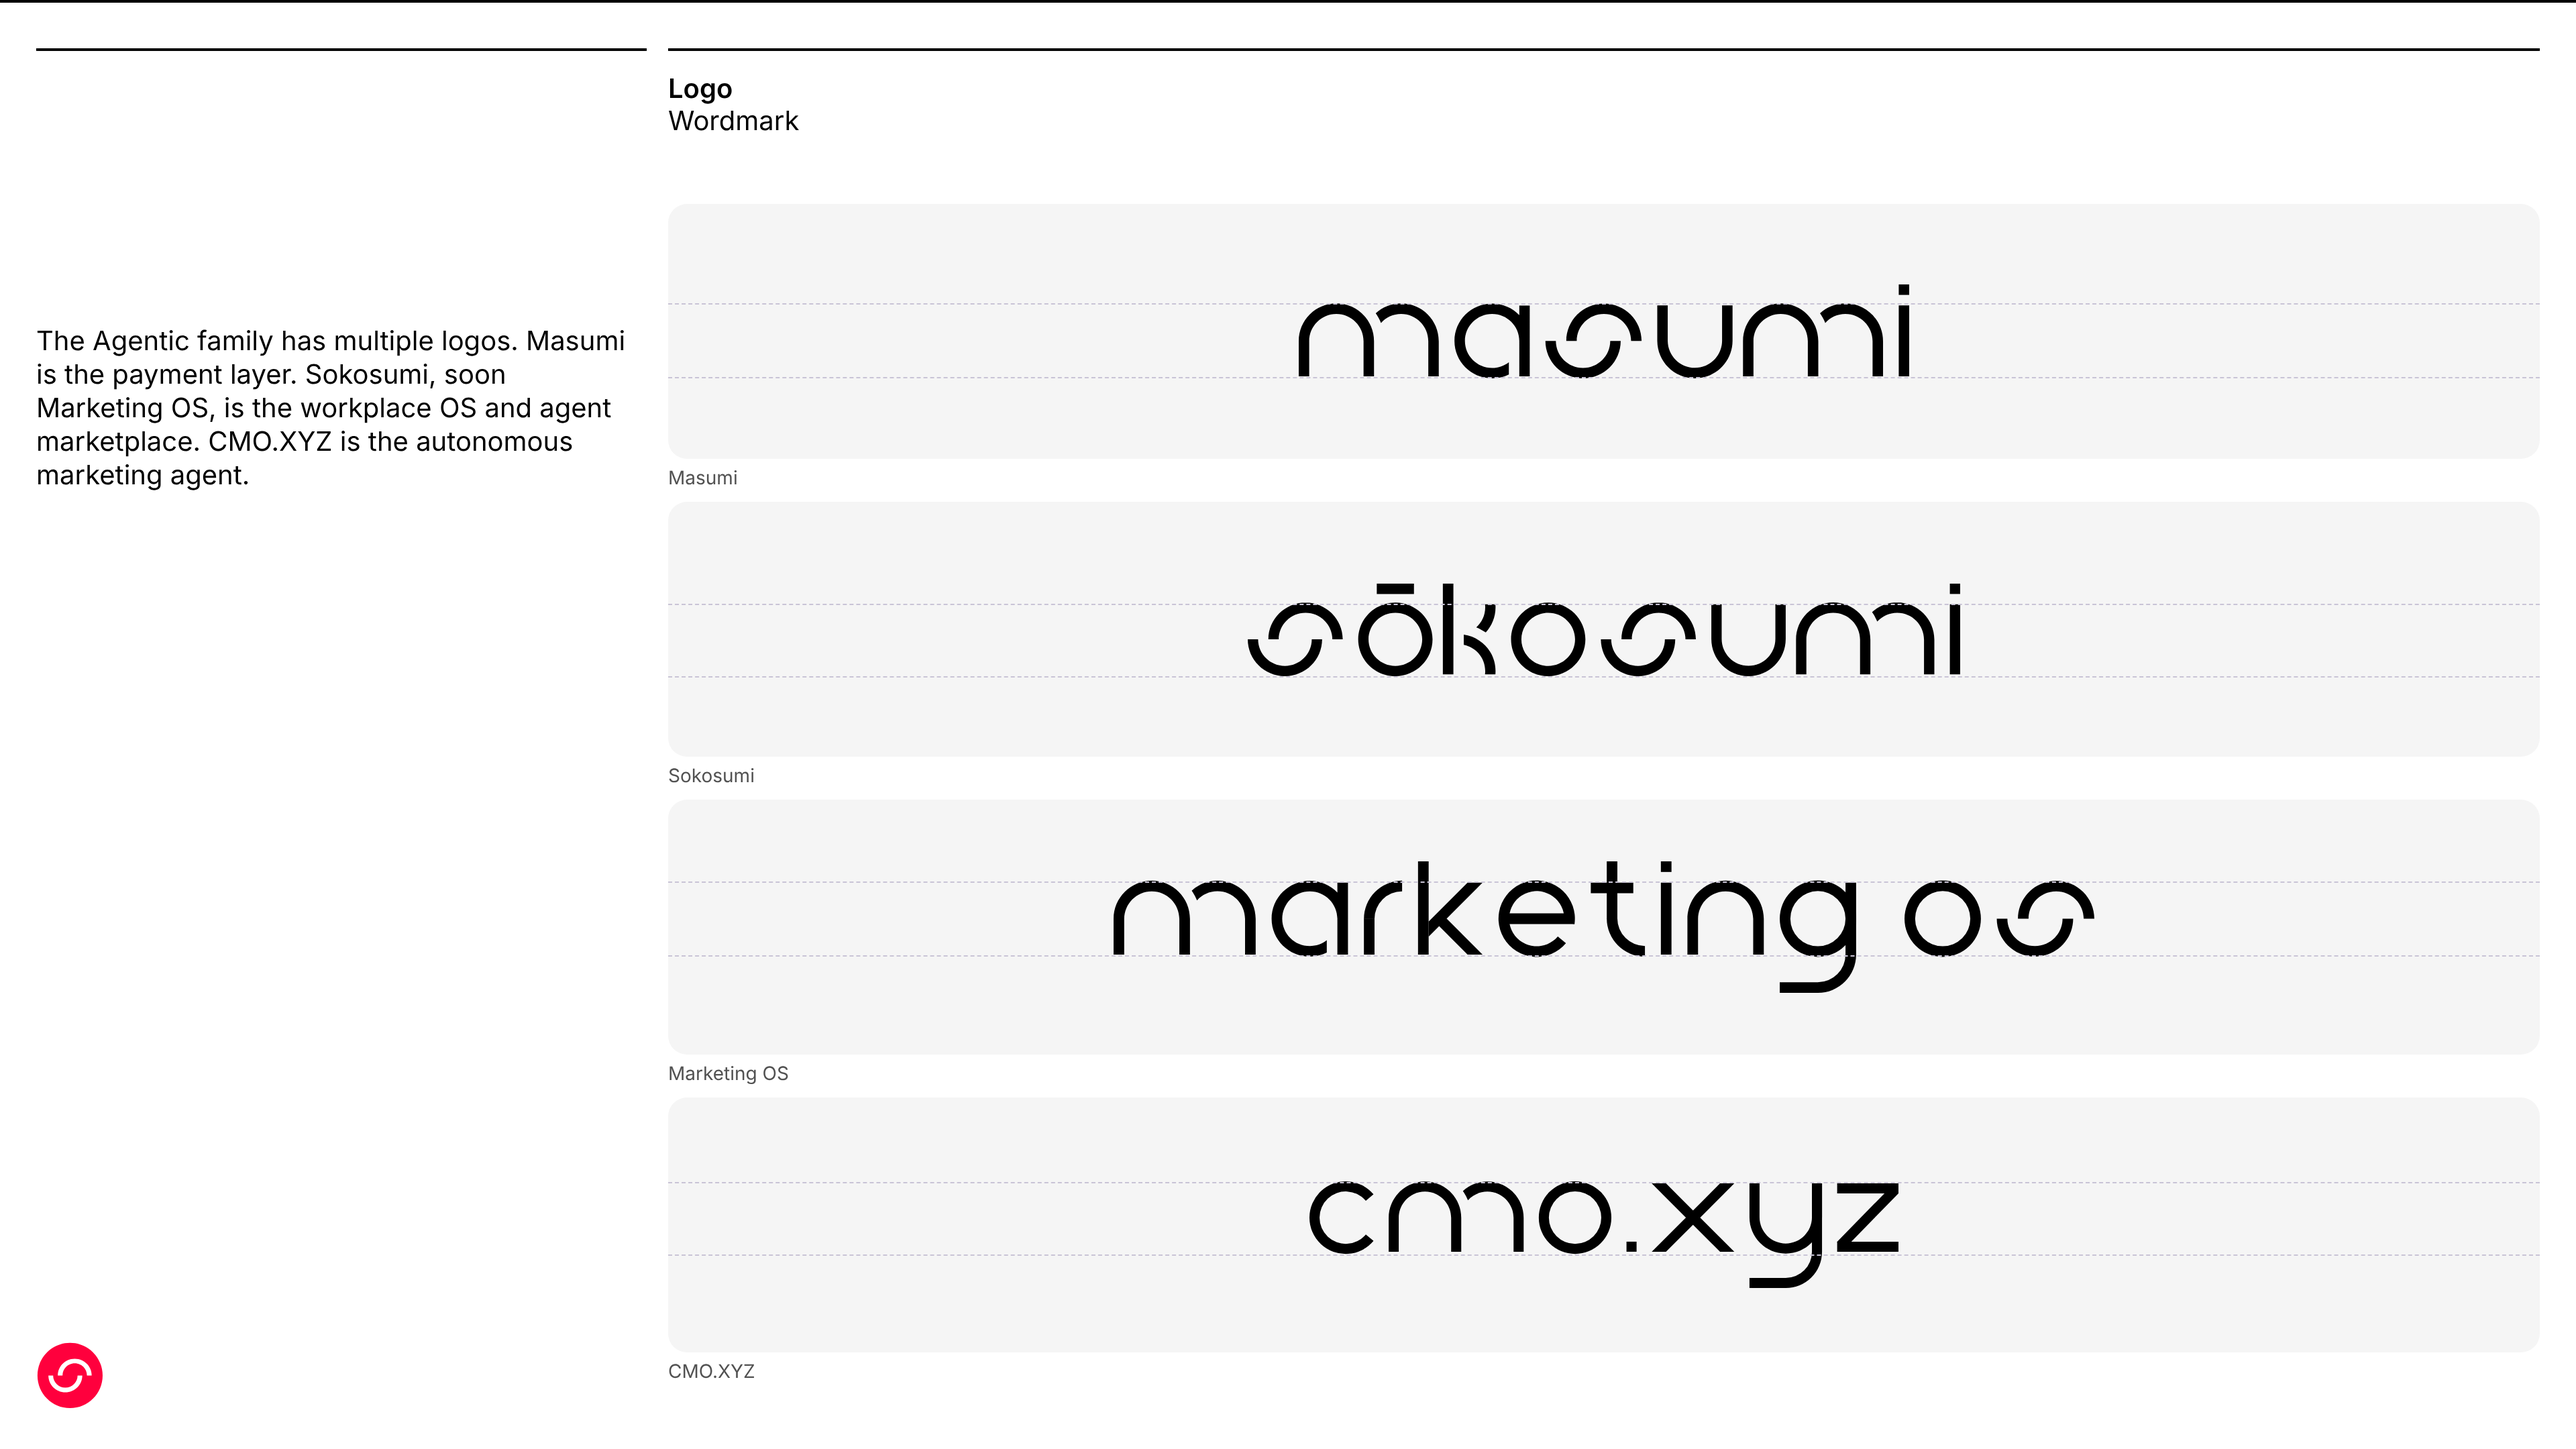
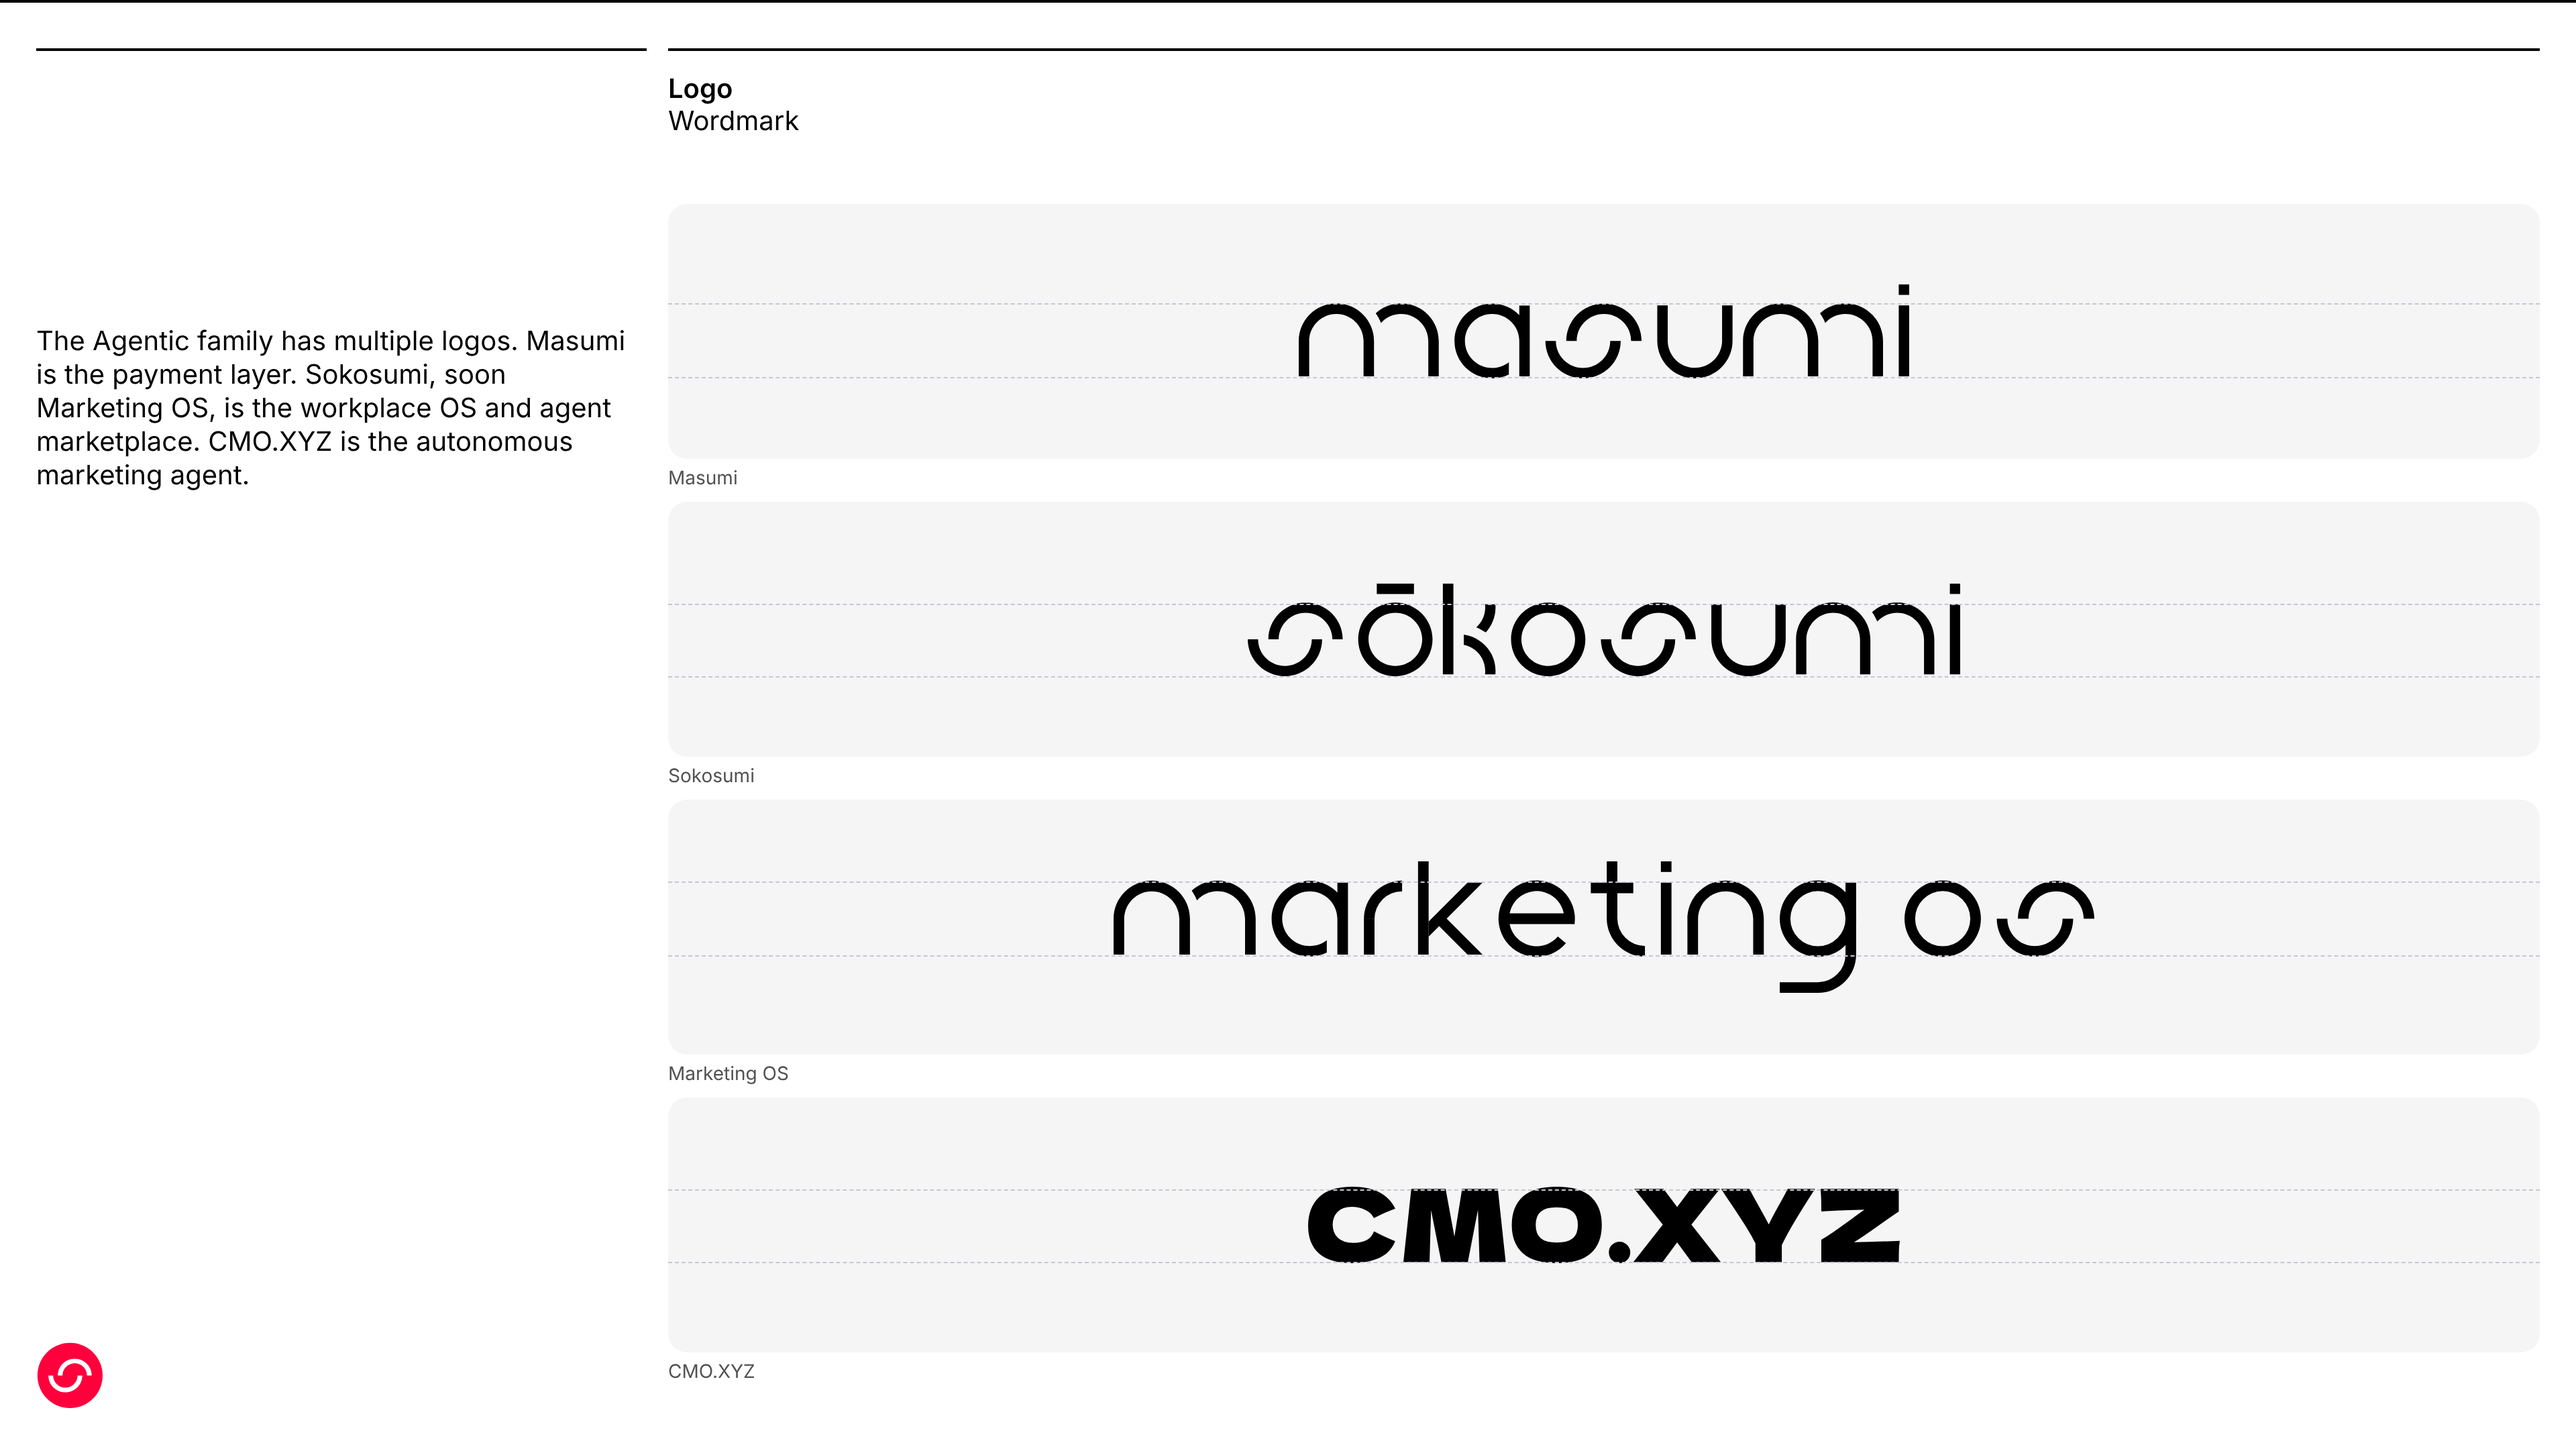
Remove old CMO.XYZ wordmarks
Point the design doc and family slide at the approved Dela wordmarks.

Changed region(s): [[0.5, 0.8065, 0.75, 0.8995]]

diff --git a/sources/agentic-family-slide.html b/sources/agentic-family-slide.html
@@ -21,9 +21,9 @@
 <img class="sym" src="logos/masumi/masumi-symbol.svg" alt="Masumi symbol">
 </div>
 <script>
-const items=[["Masumi","logos/masumi/masumi-logo-wordmark-black.svg",70],["Sokosumi","logos/sokosumi/sokosumi-logo-wordmark-black.svg",69],["Marketing OS","logos/marketing-os/marketing-os-wordmark-black.svg",98],["CMO.XYZ","logos/cmo-xyz/cmo-xyz-wordmark-black.svg",93]];
+const items=[["Masumi","logos/masumi/masumi-logo-wordmark-black.svg",70],["Sokosumi","logos/sokosumi/sokosumi-logo-wordmark-black.svg",69],["Marketing OS","logos/marketing-os/marketing-os-wordmark-black.svg",98],["CMO.XYZ","logos/cmo-xyz/wordmark/cmo-xyz-dela-black.svg",57]];
 const col=document.getElementById('col');
 items.forEach(([n,src,h])=>{const d=document.createElement('div');d.className='item';d.innerHTML=`<div class="panel"><img src="${src}" alt="${n}" style="height:${h}px"></div><div class="cap">${n}</div>`;col.appendChild(d);});
-const G=[[74.0, 128.5], [75.5, 129.5], [60.5, 115.5], [62.5, 116.5]];document.querySelectorAll('.panel').forEach((p,k)=>G[k].forEach(v=>{const g=document.createElement('i');g.className='g';g.style.top=v+'px';p.appendChild(g);}));
+const G=[[74.0, 128.5], [75.5, 129.5], [60.5, 115.5], [68.5, 122.5]];document.querySelectorAll('.panel').forEach((p,k)=>G[k].forEach(v=>{const g=document.createElement('i');g.className='g';g.style.top=v+'px';p.appendChild(g);}));
 
 </script></body></html>

diff --git a/Masumi Family design.md b/Masumi Family design.md
@@ -40,7 +40,7 @@ The Agentic family has multiple logos. Masumi is the payment layer, Sokosumi is 
 | Masumi | Payment layer | ![Masumi](logos/masumi/masumi-logo-wordmark-black.svg) |
 | Sokosumi | Workplace OS and agent marketplace | ![Sokosumi](logos/sokosumi/sokosumi-logo-wordmark-black.svg) |
 | Marketing OS | Upcoming name for Sokosumi | ![Marketing OS](logos/marketing-os/marketing-os-wordmark-black.svg) |
-| CMO.XYZ | Autonomous marketing agent | ![CMO.XYZ](logos/cmo-xyz/cmo-xyz-wordmark-black.svg) |
+| CMO.XYZ | Autonomous marketing agent | ![CMO.XYZ](logos/cmo-xyz/wordmark/cmo-xyz-dela-black.svg) |
 
 The slide is `Masumi Family Brand Guide Slides/agentic-family-slide.png` (16:9, 1920 by 1080 at 2x). Its editable source is `agentic-family-slide.html`.
 
@@ -280,7 +280,6 @@ Approved wordmarks. The primary wordmark is **Open**.
 - Do not recolor, stretch, rotate, or add effects to the logo files.
 - **Clear space (Proposed):** 1x on every side, where x is the cap height of the C in the lockup's wordmark.
 - **Minimum width (Proposed):** lockups with the mascot 120 px or 30 mm, wordmark 80 px or 20 mm, monogram 24 px or 8 mm.
-- `logos/cmo-xyz/cmo-xyz-wordmark-black.svg` and `-white.svg` are the earlier working wordmarks. They were not approved and stay only until the family slide and table are updated.
 
 ### Product
 
@@ -951,8 +950,8 @@ All paths are relative to this file. Keep this file and these folders together.
 | Sokosumi | `logos/sokosumi/sokosumi-logo-wordmark-white.svg` |
 | Marketing OS | `logos/marketing-os/marketing-os-wordmark-black.svg` |
 | Marketing OS | `logos/marketing-os/marketing-os-wordmark-white.svg` |
-| CMO.XYZ | `logos/cmo-xyz/cmo-xyz-wordmark-black.svg` |
-| CMO.XYZ | `logos/cmo-xyz/cmo-xyz-wordmark-white.svg` |
+| CMO.XYZ | `logos/cmo-xyz/wordmark/cmo-xyz-dela-black.svg` |
+| CMO.XYZ | `logos/cmo-xyz/wordmark/cmo-xyz-dela-white.svg` |
 
 ### Slides (`Masumi Family Brand Guide Slides/`)
 
